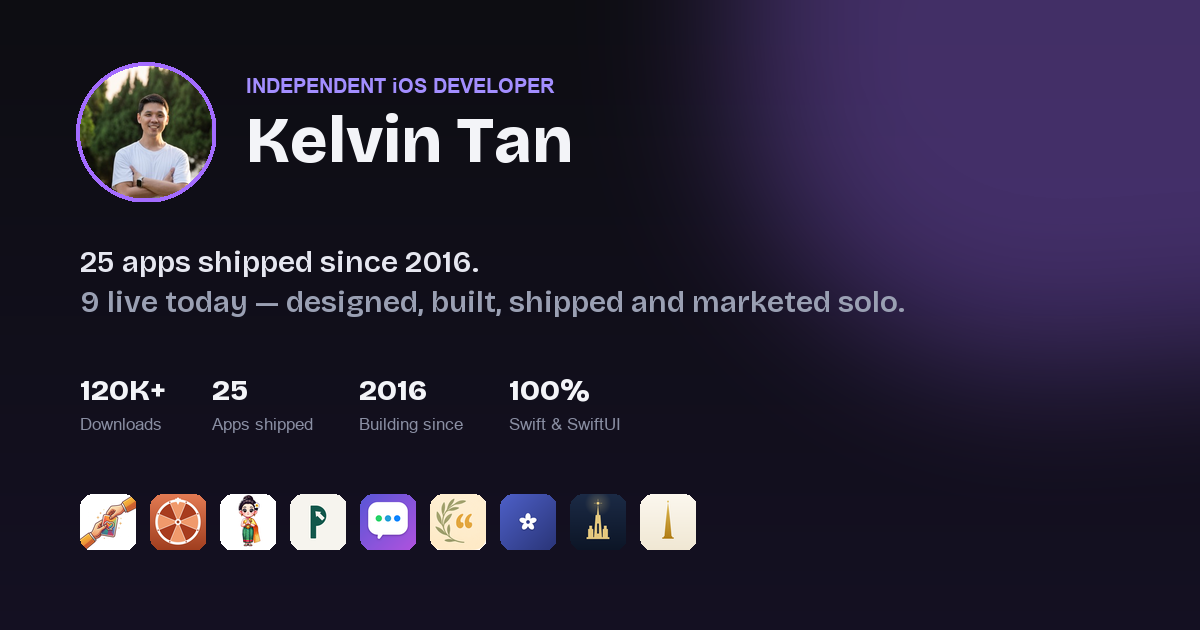
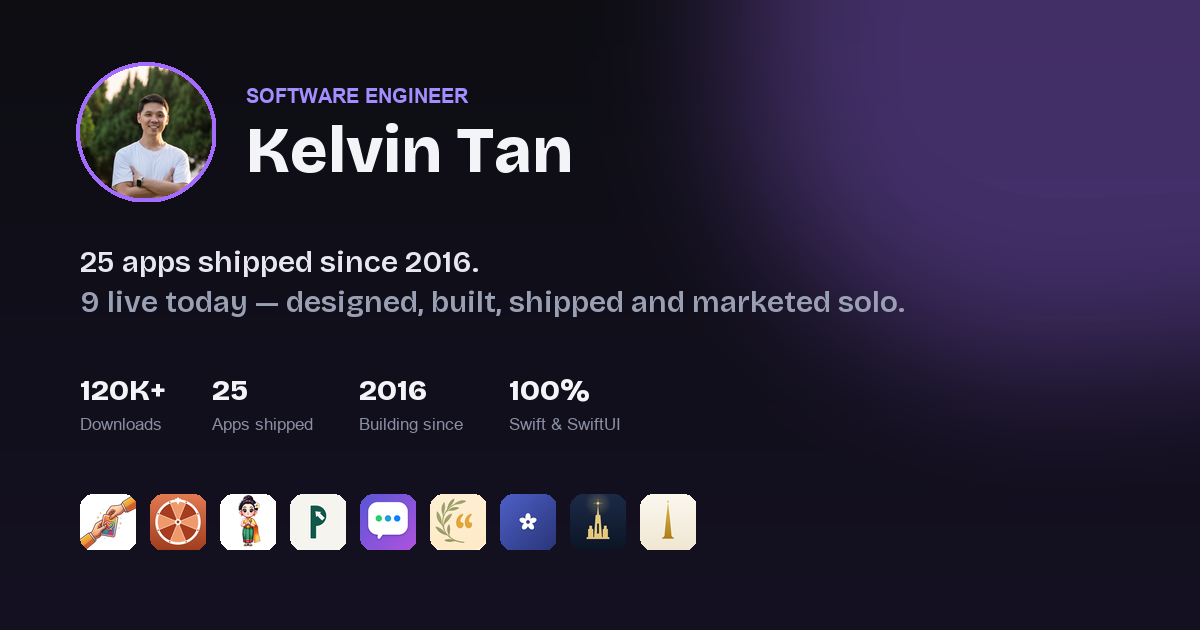
Rename iOS Developer to Software Engineer everywhere
Covers the <title>, meta/og description, og:title, JSON-LD jobTitle,
the README hero line, and og-image.png (regenerated — the old title
was baked into the pixels, not just markup).

Changed region(s): [[0.185, 0.1206, 0.4933, 0.2714]]

diff --git a/index.html b/index.html
@@ -3,8 +3,8 @@
 <head>
 <meta charset="UTF-8" />
 <meta name="viewport" content="width=device-width, initial-scale=1, viewport-fit=cover" />
-<title>Kelvin Tan — iOS Developer, 25 Apps Shipped, 120K+ Downloads</title>
-<meta name="description" content="Independent iOS developer since 2016. 25 apps shipped, 9 in active focus, 120K+ downloads. Swift &amp; SwiftUI — see the apps, work experience and certifications." />
+<title>Kelvin Tan — Software Engineer, 25 Apps Shipped, 120K+ Downloads</title>
+<meta name="description" content="Software engineer since 2016. 25 apps shipped, 9 in active focus, 120K+ downloads. Swift &amp; SwiftUI — see the apps, work experience and certifications." />
 <meta name="author" content="Zhi Yao Tan" />
 <link rel="icon" href="favicon.png" />
 <link rel="canonical" href="https://zhiyao92.github.io/ios-apps/" />
@@ -14,8 +14,8 @@
 <link href="https://fonts.googleapis.com/css2?family=Bricolage+Grotesque:opsz,wght@12..96,600..800&display=swap" rel="stylesheet" />
 
 <meta property="og:type" content="website" />
-<meta property="og:title" content="Kelvin Tan — iOS Developer, 25 Apps Shipped, 120K+ Downloads" />
-<meta property="og:description" content="Independent iOS developer since 2016. 25 apps shipped, 9 in active focus, 120K+ downloads. Swift &amp; SwiftUI — see the apps, work experience and certifications." />
+<meta property="og:title" content="Kelvin Tan — Software Engineer, 25 Apps Shipped, 120K+ Downloads" />
+<meta property="og:description" content="Software engineer since 2016. 25 apps shipped, 9 in active focus, 120K+ downloads. Swift &amp; SwiftUI — see the apps, work experience and certifications." />
 <meta property="og:url" content="https://zhiyao92.github.io/ios-apps/" />
 <meta property="og:image" content="https://zhiyao92.github.io/ios-apps/og-image.png" />
 <meta property="og:image:width" content="1200" />
@@ -31,7 +31,7 @@
   "alternateName": "Zhi Yao Tan",
   "url": "https://zhiyao92.github.io/ios-apps/",
   "image": "https://zhiyao92.github.io/ios-apps/avatar.jpg",
-  "jobTitle": "iOS Developer",
+  "jobTitle": "Software Engineer",
   "sameAs": [
     "https://apps.apple.com/us/developer/zhi-yao-tan/id1161829106",
     "https://www.linkedin.com/in/kelvin-tan-31119133/",

diff --git a/README.md b/README.md
@@ -1,6 +1,6 @@
 <h2 align="center">Kelvin Tan — iOS Apps</h2>
 <p align="center">
-  Independent iOS developer since 2016. 25 apps shipped, 9 still live.<br>
+  Software engineer since 2016. 25 apps shipped, 9 still live.<br>
   <strong><a href="https://zhiyao92.github.io/ios-apps/">zhiyao92.github.io/ios-apps</a></strong>
 </p>
 <p align="center">
